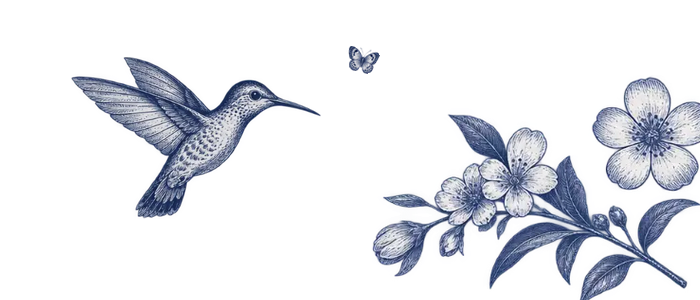
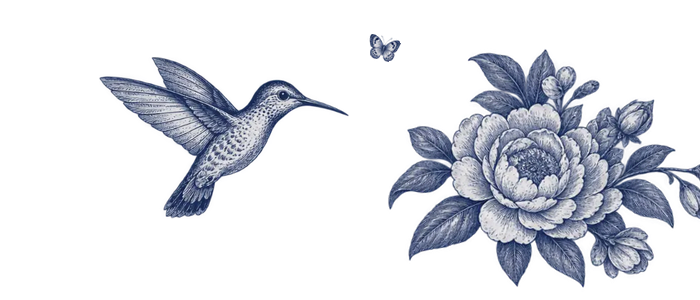
Illustrations V3 (branches ancrées aux bords, décors de tuiles dédiés), retrait des illustrations de section et de bas de page, en-tête du planning aligné sur Souvenirs
Claude-Session: https://claude.ai/code/session_01FApuoemgso4M4GutVtsH3a

diff --git a/index.html b/index.html
@@ -7,7 +7,7 @@
 <title>Marie &amp; Olivier</title>
 <link rel="icon" type="image/png" href="assets/favicon.png">
 <link rel="apple-touch-icon" href="assets/apple-touch-icon.png">
-<link rel="stylesheet" href="assets/charte.css?v=202610241637">
+<link rel="stylesheet" href="assets/charte.css?v=202610241644">
 <style>
   main{max-width:1200px;margin:0 auto;padding:0 16px 0}
 
@@ -21,7 +21,6 @@
 
   /* ---- sections ---- */
   section.groupe{margin-top:54px;position:relative}
-  section.groupe > .motif-titre{display:block;width:min(420px,80vw);margin:0 auto 6px;height:70px;object-fit:contain;object-position:bottom}
   section.groupe > h2{font-size:2.1rem;text-align:center;font-style:italic;color:var(--or)}
   section.groupe > p{text-align:center;margin:4px auto 0;max-width:560px;color:var(--encre-douce)}
   .grille{display:grid;grid-template-columns:repeat(auto-fit,minmax(230px,1fr));gap:18px;margin-top:24px}
@@ -57,14 +56,12 @@
   </header>
 
   <section class="groupe">
-    <img class="motif motif-titre" src="assets/motifs/colibri-droit.png" alt="">
     <h2>Pour les invités</h2>
     <p class="italique">Trois pages à partager avec vos invités : par message, sur le livret ou en affichette à l'entrée de la salle. Chacune a son lien et son QR code.</p>
     <div class="grille" id="g-invites"></div>
   </section>
 
   <section class="groupe">
-    <img class="motif motif-titre" src="assets/motifs/oiseau-branche.png" alt="" style="height:110px">
     <h2>Pour les organisateurs</h2>
     <p class="italique">Les coulisses du mariage, pour Marie, Olivier et ceux qui les aident. Ces liens restent entre nous : ils permettent de tout modifier.</p>
     <div class="grille" id="g-orga"></div>
@@ -87,23 +84,23 @@
 
 <script src="https://cdn.jsdelivr.net/npm/@supabase/supabase-js@2.45.4/dist/umd/supabase.min.js"></script>
 <script src="https://cdnjs.cloudflare.com/ajax/libs/qrcodejs/1.0.0/qrcode.min.js"></script>
-<script src="assets/commun.js?v=202610241637"></script>
-<script src="assets/ouverture.js?v=202610241637"></script>
+<script src="assets/commun.js?v=202610241644"></script>
+<script src="assets/ouverture.js?v=202610241644"></script>
 <script>
 const FONCTIONS = [
-  { groupe: 'invites', deco: 'colibri', titre: 'Souvenirs', chemin: 'souvenirs/', accroche: 'Partagez vos souvenirs',
+  { groupe: 'invites', deco: 'carte-1', titre: 'Souvenirs', chemin: 'souvenirs/', accroche: 'Partagez vos souvenirs',
     texte: 'Avant le grand jour, les invités déposent ici leurs photos, leurs vidéos et un petit mot pour les mariés. Tout ce qui est déposé sera projeté sur grand écran pendant la soirée, pour revivre ensemble ces années de souvenirs.' },
-  { groupe: 'invites', deco: 'couv-droite-haut', titre: 'Trouver ma table', chemin: 'plan-de-table/ma-place.html', accroche: 'Trouvez votre table',
+  { groupe: 'invites', deco: 'carte-7', titre: 'Trouver ma table', chemin: 'plan-de-table/ma-place.html', accroche: 'Trouvez votre table',
     texte: 'À l\'entrée de la salle, chaque invité tape son prénom ou son nom et découvre aussitôt sa table, son emplacement sur le plan et les convives qui l\'entourent. Plus besoin de chercher son nom sur un panneau.' },
-  { groupe: 'invites', deco: 'motif-a', titre: 'Programme', chemin: 'programme/', accroche: 'Le programme',
+  { groupe: 'invites', deco: 'carte-2', titre: 'Programme', chemin: 'programme/', accroche: 'Le programme',
     texte: 'Le déroulé du week-end heure par heure : la cérémonie, le vin d\'honneur, le dîner, la soirée et le lendemain. Les lieux et horaires sont indiqués, et le moment en cours est mis en avant le jour J.' },
-  { groupe: 'orga', deco: 'colibri', titre: 'Souvenirs', chemin: 'souvenirs/admin.html', accroche: 'Souvenirs',
+  { groupe: 'orga', deco: 'carte-5', titre: 'Souvenirs', chemin: 'souvenirs/admin.html', accroche: 'Souvenirs',
     texte: 'Tout ce que les invités ont déposé, envoi par envoi. Choisissez ce qui sera projeté, corrigez un mot, téléchargez l\'ensemble en un clic. C\'est aussi ici que vous ouvrez ou fermez le dépôt.' },
-  { groupe: 'orga', deco: 'couv-gauche-bas', titre: 'Projection', chemin: 'projection/', accroche: 'Projection',
+  { groupe: 'orga', deco: 'carte-4', titre: 'Projection', chemin: 'projection/', accroche: 'Projection',
     texte: 'Le diaporama de la soirée, à lancer sur l\'écran de la salle. Les photos et les mots défilent en boucle, les nouveaux souvenirs y arrivent au fil de l\'eau, et un QR code invite à en déposer d\'autres.' },
-  { groupe: 'orga', deco: 'oiseau-branche', titre: 'Plan de table', chemin: 'plan-de-table/', accroche: 'Plan de table',
+  { groupe: 'orga', deco: 'carte-3', titre: 'Plan de table', chemin: 'plan-de-table/', accroche: 'Plan de table',
     texte: 'La salle au vrai format, les tables qu\'on assemble, les invités qu\'on glisse à leur place, les nappes et les centres de table. Publiez-le quand il est prêt : « Trouver ma table » s\'en sert aussitôt.' },
-  { groupe: 'orga', deco: 'colibri-droit', titre: 'Planning détaillé', chemin: 'planning/', accroche: 'Le planning du week-end',
+  { groupe: 'orga', deco: 'carte-6', titre: 'Planning détaillé', chemin: 'planning/', accroche: 'Le planning du week-end',
     texte: 'Le minute par minute du week-end pour les témoins et la famille : qui fait quoi, où et quand. Cochez les moments à montrer aux invités, puis publiez leur programme d\'un geste.' }
 ];
 

diff --git a/planning/index.html b/planning/index.html
@@ -7,9 +7,9 @@
 <title>Marie &amp; Olivier</title>
 <link rel="icon" type="image/png" href="../assets/favicon.png">
 <link rel="apple-touch-icon" href="../assets/apple-touch-icon.png">
-<link rel="stylesheet" href="../assets/charte.css?v=202610241637">
+<link rel="stylesheet" href="../assets/charte.css?v=202610241644">
 <style>
-  main{max-width:860px;margin:0 auto;padding:30px 16px 90px}
+  main{max-width:1000px;margin:0 auto;padding:10px 16px 90px}
   header.tete{text-align:center;position:relative}
   header.tete h1{font-size:clamp(2rem,7vw,2.8rem);font-style:italic}
   header.tete .o1{position:absolute;width:110px;left:-30px;top:-40px;opacity:.9}
@@ -67,15 +67,13 @@
 <body>
 <header id="bandeau"></header>
 <main>
-  <header class="tete">
-    <span id="o"></span>
-    <p class="capitales">Marie &amp; Olivier · l'équipe</p>
-    <h1>Le planning du week-end</h1>
-    <p class="doux italique" style="margin:6px 0 0">Qui fait quoi, où et quand. Cochez « Montrer aux invités » sur les moments qui doivent apparaître dans leur programme, puis publiez-le avec l'interrupteur en haut à droite.</p>
+  <section class="intro-orga">
+    <p class="capitales" style="margin-top:20px">Qui fait quoi, où et quand</p>
+    <h1 style="font-size:2.2rem;font-style:italic">Le planning du week-end</h1>
+    <p class="doux" style="margin:6px 0 0">Le minute par minute pour les témoins et la famille. Cochez « Montrer aux invités » sur les moments qui doivent apparaître dans leur programme, puis publiez-le avec l'interrupteur en haut à droite.</p>
     <p class="capitales" id="compte-public" style="margin:10px 0 0;font-size:.66rem;color:var(--or)"></p>
-    <div class="filet-or"><span>✦</span></div>
-    <div class="outils" id="outils"></div>
-  </header>
+    <div class="outils" id="outils" style="justify-content:flex-start;margin-top:16px"></div>
+  </section>
 
   <nav class="jours" id="jours" aria-label="Jours"></nav>
   <div class="maintenant-bloc carte-papier" id="maintenant" hidden></div>
@@ -106,11 +104,10 @@
 <footer class="pied-bleu" id="pied"></footer>
 
 <script src="https://cdn.jsdelivr.net/npm/@supabase/supabase-js@2.45.4/dist/umd/supabase.min.js"></script>
-<script src="../assets/commun.js?v=202610241637"></script>
-<script src="../assets/programme.js?v=202610241637"></script>
+<script src="../assets/commun.js?v=202610241644"></script>
+<script src="../assets/programme.js?v=202610241644"></script>
 <script>
 let items = [], jourActif = null, edition = false, enEdition = null;
-$('#o').outerHTML = motif('motif-a', 'o1') + motif('colibri-droit', 'o2');
 $('#pied').innerHTML = piedBleu('');
 
 async function demarrer(){

diff --git a/assets/charte.css b/assets/charte.css
@@ -112,18 +112,19 @@ textarea{resize:vertical}
 .cote.droite img{object-position:right top}
 @media (min-width:980px){.cote{display:block}}
 .frise-bas{display:block;width:min(1000px,96%);margin:40px auto -30px;position:relative;z-index:1}
-.entete-site .orn.c{width:min(200px,34vw);left:-24px;bottom:-30px;opacity:.95}
+.entete-site .orn.c{width:min(130px,24vw);left:-14px;bottom:-16px;opacity:.95}
 @media (max-width:520px){.entete-site .orn.c{display:none}}
 body > main,body > footer,body > header{position:relative;z-index:1}
 
 /* En-tête commun des pages invités */
-.entete-site{text-align:center;position:relative;padding:44px 22px 34px;overflow:hidden}
+.entete-site{text-align:center;position:relative;padding:44px 60px 40px;overflow:hidden}
+@media (max-width:600px){.entete-site{padding:40px 22px 34px}}
 .entete-site .monogramme{font-size:clamp(3.4rem,15vw,4.8rem);margin:6px 0 2px}
 .entete-site h1{font-style:italic;font-size:clamp(1.9rem,7vw,2.5rem)}
 .entete-site .sous{margin:8px 0 0;color:var(--encre-douce)}
 .entete-site .orn{position:absolute;pointer-events:none}
-.entete-site .orn.a{width:min(150px,28vw);left:-20px;top:-14px;opacity:.92}
-.entete-site .orn.b{width:min(230px,36vw);right:-20px;bottom:-24px;opacity:.95}
+.entete-site .orn.a{width:min(120px,22vw);left:-16px;top:-12px;opacity:.92}
+.entete-site .orn.b{width:min(150px,26vw);right:-14px;bottom:-16px;opacity:.95}
 @media (max-width:520px){.entete-site .orn.b{right:-34px;bottom:-44px;opacity:.8}}
 .entete-site > *:not(.orn){position:relative}
 

diff --git a/plan-de-table/ma-place.html b/plan-de-table/ma-place.html
@@ -6,8 +6,8 @@
 <title>Marie &amp; Olivier</title>
 <link rel="icon" type="image/png" href="../assets/favicon.png">
 <link rel="apple-touch-icon" href="../assets/apple-touch-icon.png">
-<link rel="stylesheet" href="../assets/charte.css?v=202610241637">
-<link rel="stylesheet" href="plan.css?v=202610241637">
+<link rel="stylesheet" href="../assets/charte.css?v=202610241644">
+<link rel="stylesheet" href="plan.css?v=202610241644">
 <style>
   main{max-width:620px;margin:0 auto;padding:30px 16px 60px}
   .recherche{margin:26px auto 0;max-width:420px;text-align:center}
@@ -38,13 +38,12 @@
   <p class="info" id="info"></p>
   <div class="resultats" id="resultats"></div>
   <span id="pap"></span>
-  <img class="motif frise-bas" src="../assets/motifs/frise-bas.png" alt="" onerror="this.remove()">
 </main>
 <footer class="pied-bleu" id="pied"></footer>
 <script src="https://cdn.jsdelivr.net/npm/@supabase/supabase-js@2.45.4/dist/umd/supabase.min.js"></script>
-<script src="../assets/commun.js?v=202610241637"></script>
-<script src="../assets/ouverture.js?v=202610241637"></script>
-<script src="../assets/plan-geometrie.js?v=202610241637"></script>
+<script src="../assets/commun.js?v=202610241644"></script>
+<script src="../assets/ouverture.js?v=202610241644"></script>
+<script src="../assets/plan-geometrie.js?v=202610241644"></script>
 <script>
 /* Page invités : aucun lien vers le reste du site, client sans session.
    Les données viennent de deux fonctions en base qui ne renvoient que le plan publié. */

diff --git a/programme/index.html b/programme/index.html
@@ -6,7 +6,7 @@
 <title>Marie &amp; Olivier</title>
 <link rel="icon" type="image/png" href="../assets/favicon.png">
 <link rel="apple-touch-icon" href="../assets/apple-touch-icon.png">
-<link rel="stylesheet" href="../assets/charte.css?v=202610241637">
+<link rel="stylesheet" href="../assets/charte.css?v=202610241644">
 <style>
   main{max-width:560px;margin:0 auto;padding:30px 16px 70px}
   .jour{margin-top:40px;text-align:center}
@@ -29,13 +29,12 @@
   <header class="entete-site" data-titre="Le programme" data-sous="Le déroulé du week-end, heure par heure.<br>Les horaires et les lieux de chaque moment, de la cérémonie au lendemain."></header>
   <div id="jours"></div>
   <span id="pap"></span>
-  <img class="motif frise-bas" src="../assets/motifs/frise-bas.png" alt="" onerror="this.remove()">
 </main>
 <footer class="pied-bleu" id="pied"></footer>
 <script src="https://cdn.jsdelivr.net/npm/@supabase/supabase-js@2.45.4/dist/umd/supabase.min.js"></script>
-<script src="../assets/commun.js?v=202610241637"></script>
-<script src="../assets/ouverture.js?v=202610241637"></script>
-<script src="../assets/programme.js?v=202610241637"></script>
+<script src="../assets/commun.js?v=202610241644"></script>
+<script src="../assets/ouverture.js?v=202610241644"></script>
+<script src="../assets/programme.js?v=202610241644"></script>
 <script>
 $('#pap').remove();
 $('#pied').innerHTML = piedBleu();

diff --git a/souvenirs/index.html b/souvenirs/index.html
@@ -6,7 +6,7 @@
 <title>Marie &amp; Olivier</title>
 <link rel="icon" type="image/png" href="../assets/favicon.png">
 <link rel="apple-touch-icon" href="../assets/apple-touch-icon.png">
-<link rel="stylesheet" href="../assets/charte.css?v=202610241637">
+<link rel="stylesheet" href="../assets/charte.css?v=202610241644">
 <style>
   main{max-width:600px;margin:0 auto;padding:34px 16px 60px}
   .note{max-width:460px;margin:22px auto 0;text-align:center;font-size:1rem;color:var(--encre-douce)}
@@ -103,14 +103,13 @@
   <p style="margin-top:20px"><button class="btn" id="btn-accueil">Envoyer d'autres souvenirs</button></p>
 </section>
 
-  <img class="motif frise-bas" src="../assets/motifs/frise-bas.png" alt="" onerror="this.remove()">
 </main>
 <footer class="pied-bleu" id="pied"></footer>
 
 <script src="https://cdn.jsdelivr.net/npm/@supabase/supabase-js@2.45.4/dist/umd/supabase.min.js"></script>
 <script src="https://cdn.jsdelivr.net/npm/tus-js-client@4.1.0/dist/tus.min.js"></script>
-<script src="../assets/commun.js?v=202610241637"></script>
-<script src="../assets/ouverture.js?v=202610241637"></script>
+<script src="../assets/commun.js?v=202610241644"></script>
+<script src="../assets/ouverture.js?v=202610241644"></script>
 <script>
 /* Page invités : aucun lien vers le reste du site.
    Client sans session : un invité dépose toujours en anonyme (droit d'écrire, jamais de lire). */

diff --git a/souvenirs/admin.html b/souvenirs/admin.html
@@ -7,9 +7,9 @@
 <title>Marie &amp; Olivier</title>
 <link rel="icon" type="image/png" href="../assets/favicon.png">
 <link rel="apple-touch-icon" href="../assets/apple-touch-icon.png">
-<link rel="stylesheet" href="../assets/charte.css?v=202610241637">
+<link rel="stylesheet" href="../assets/charte.css?v=202610241644">
 <style>
-  main{max-width:1000px;margin:0 auto;padding:30px 16px 60px}
+  main{max-width:1000px;margin:0 auto;padding:10px 16px 60px}
   .barre-outils{display:flex;gap:10px;flex-wrap:wrap;align-items:center;margin:20px 0}
   .barre-outils .spacer{flex:1}
   .stat{color:var(--encre-douce);font-style:italic}
@@ -67,7 +67,7 @@
 
 <script src="https://cdn.jsdelivr.net/npm/@supabase/supabase-js@2.45.4/dist/umd/supabase.min.js"></script>
 <script src="https://cdnjs.cloudflare.com/ajax/libs/jszip/3.10.1/jszip.min.js"></script>
-<script src="../assets/commun.js?v=202610241637"></script>
+<script src="../assets/commun.js?v=202610241644"></script>
 <script>
 let envois = [];
 $('#btn-refresh').onclick = charger;

diff --git a/plan-de-table/index.html b/plan-de-table/index.html
@@ -7,8 +7,8 @@
 <title>Marie &amp; Olivier</title>
 <link rel="icon" type="image/png" href="../assets/favicon.png">
 <link rel="apple-touch-icon" href="../assets/apple-touch-icon.png">
-<link rel="stylesheet" href="../assets/charte.css?v=202610241637">
-<link rel="stylesheet" href="plan.css?v=202610241637">
+<link rel="stylesheet" href="../assets/charte.css?v=202610241644">
+<link rel="stylesheet" href="plan.css?v=202610241644">
 </head>
 <body class="editeur">
 
@@ -166,8 +166,8 @@ Léa Martin ; Amis</pre>
 <div id="impression"></div>
 
 <script src="https://cdn.jsdelivr.net/npm/@supabase/supabase-js@2.45.4/dist/umd/supabase.min.js"></script>
-<script src="../assets/commun.js?v=202610241637"></script>
-<script src="../assets/plan-geometrie.js?v=202610241637"></script>
-<script src="plan.js?v=202610241637"></script>
+<script src="../assets/commun.js?v=202610241644"></script>
+<script src="../assets/plan-geometrie.js?v=202610241644"></script>
+<script src="plan.js?v=202610241644"></script>
 </body>
 </html>

diff --git a/projection/index.html b/projection/index.html
@@ -7,7 +7,7 @@
 <title>Marie &amp; Olivier</title>
 <link rel="icon" type="image/png" href="../assets/favicon.png">
 <link rel="apple-touch-icon" href="../assets/apple-touch-icon.png">
-<link rel="stylesheet" href="../assets/charte.css?v=202610241637">
+<link rel="stylesheet" href="../assets/charte.css?v=202610241644">
 <style>
   html,body{height:100%;overflow:hidden}
   body{background:radial-gradient(ellipse at 50% 40%,#fbfaf7,var(--satin) 60%,var(--perle) 100%)}
@@ -68,7 +68,7 @@
 
 <script src="https://cdn.jsdelivr.net/npm/@supabase/supabase-js@2.45.4/dist/umd/supabase.min.js"></script>
 <script src="https://cdnjs.cloudflare.com/ajax/libs/qrcodejs/1.0.0/qrcode.min.js"></script>
-<script src="../assets/commun.js?v=202610241637"></script>
+<script src="../assets/commun.js?v=202610241644"></script>
 <script>
 Object.assign(CONFIG, { DUREE_PHOTO: 9000, DUREE_MOT: 11000, DUREE_VIDEO_MAX: 45000, RAFRAICHIR: 20000, LARGEUR_IMAGE: 1600 });
 let items = [], connus = new Set(), file = [], nouveaux = [];
